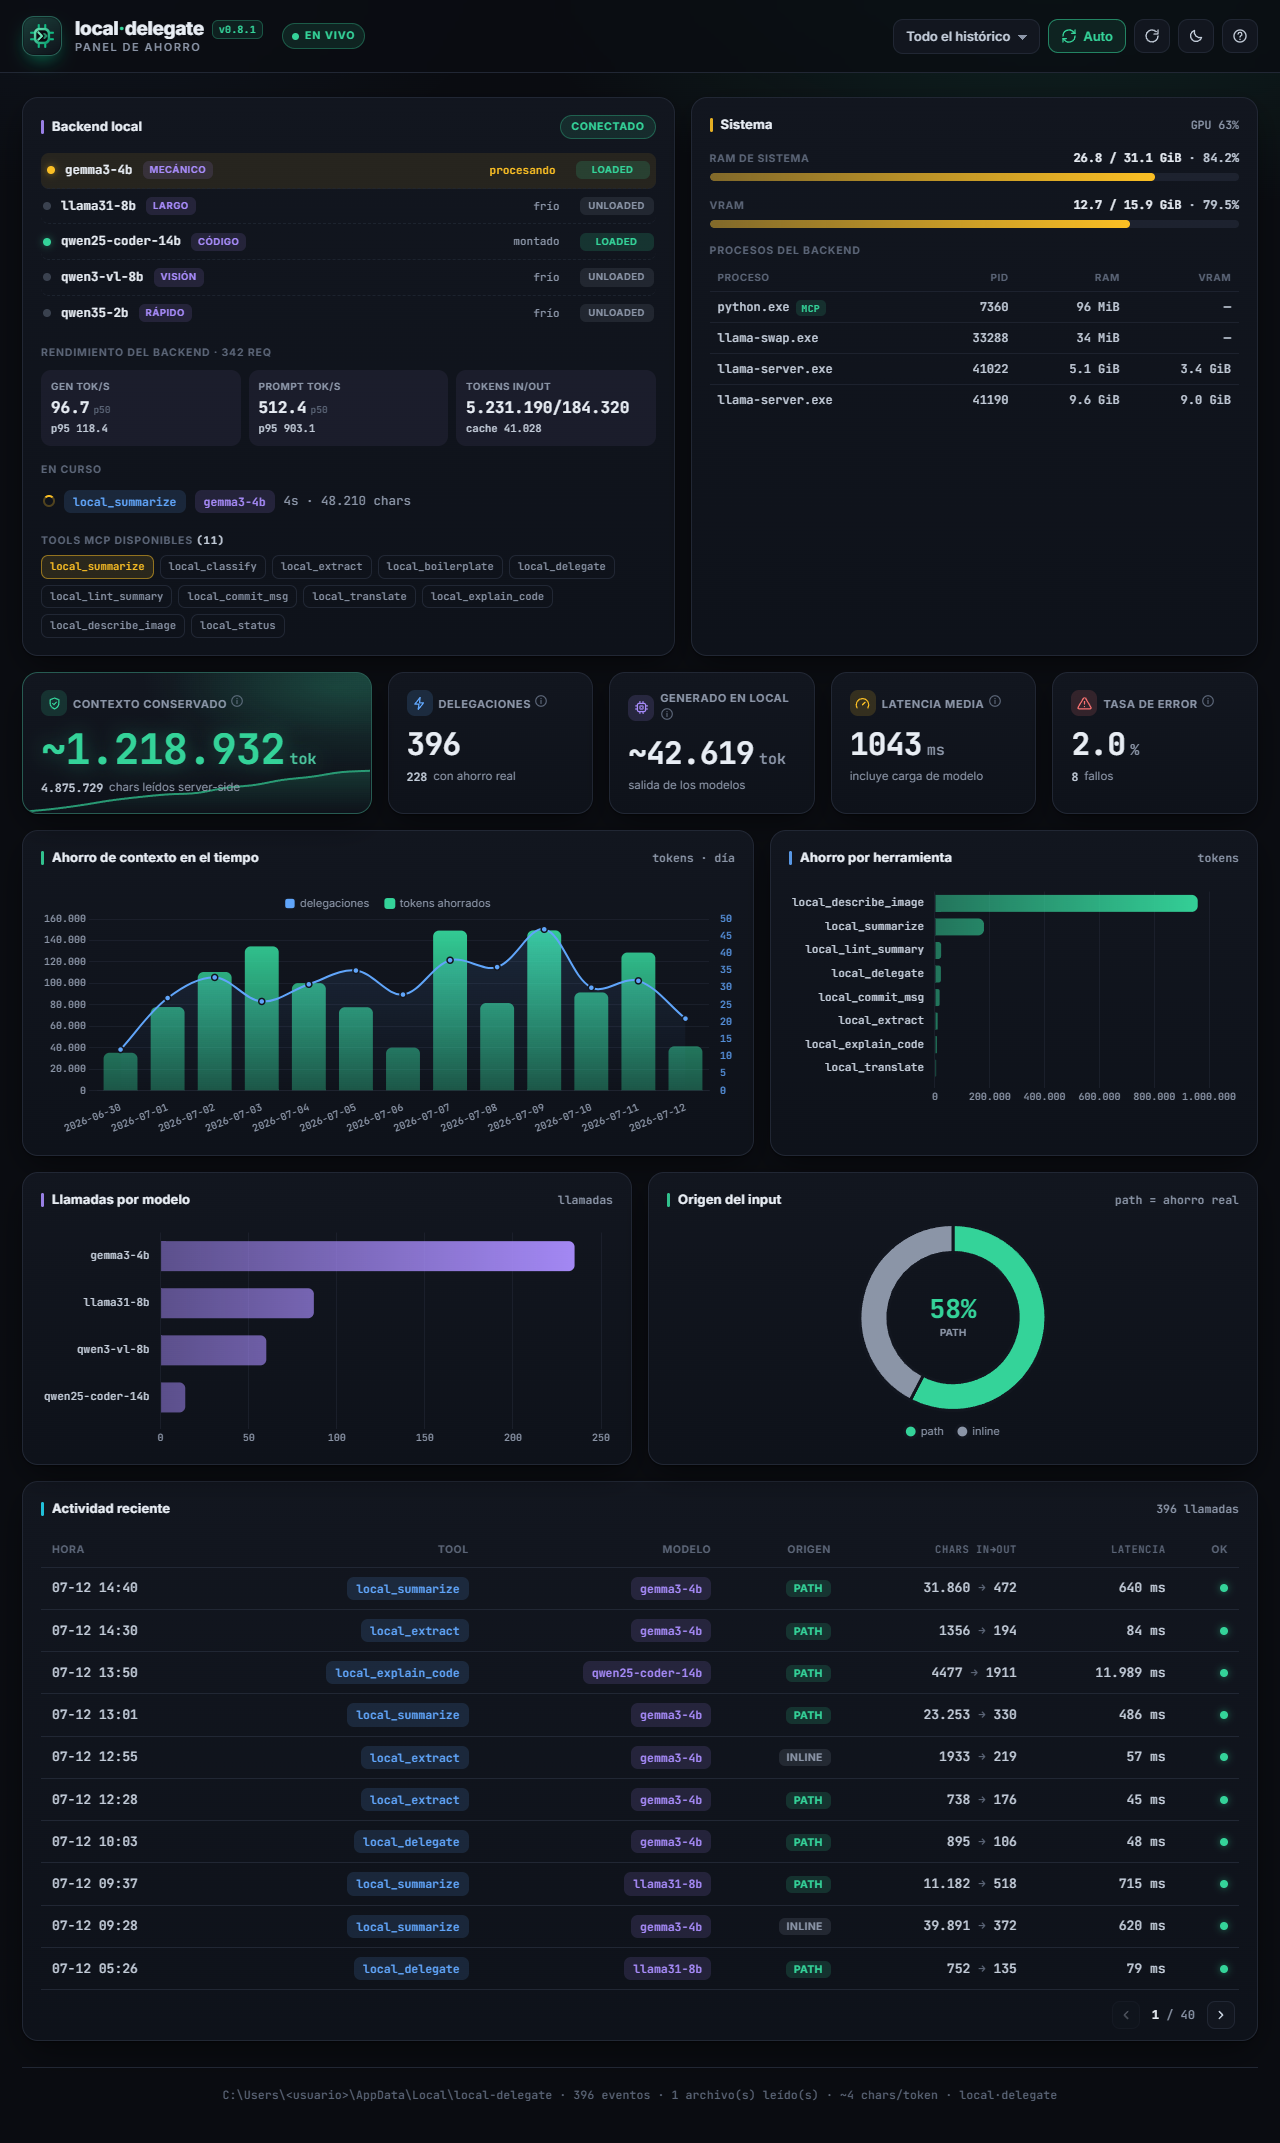
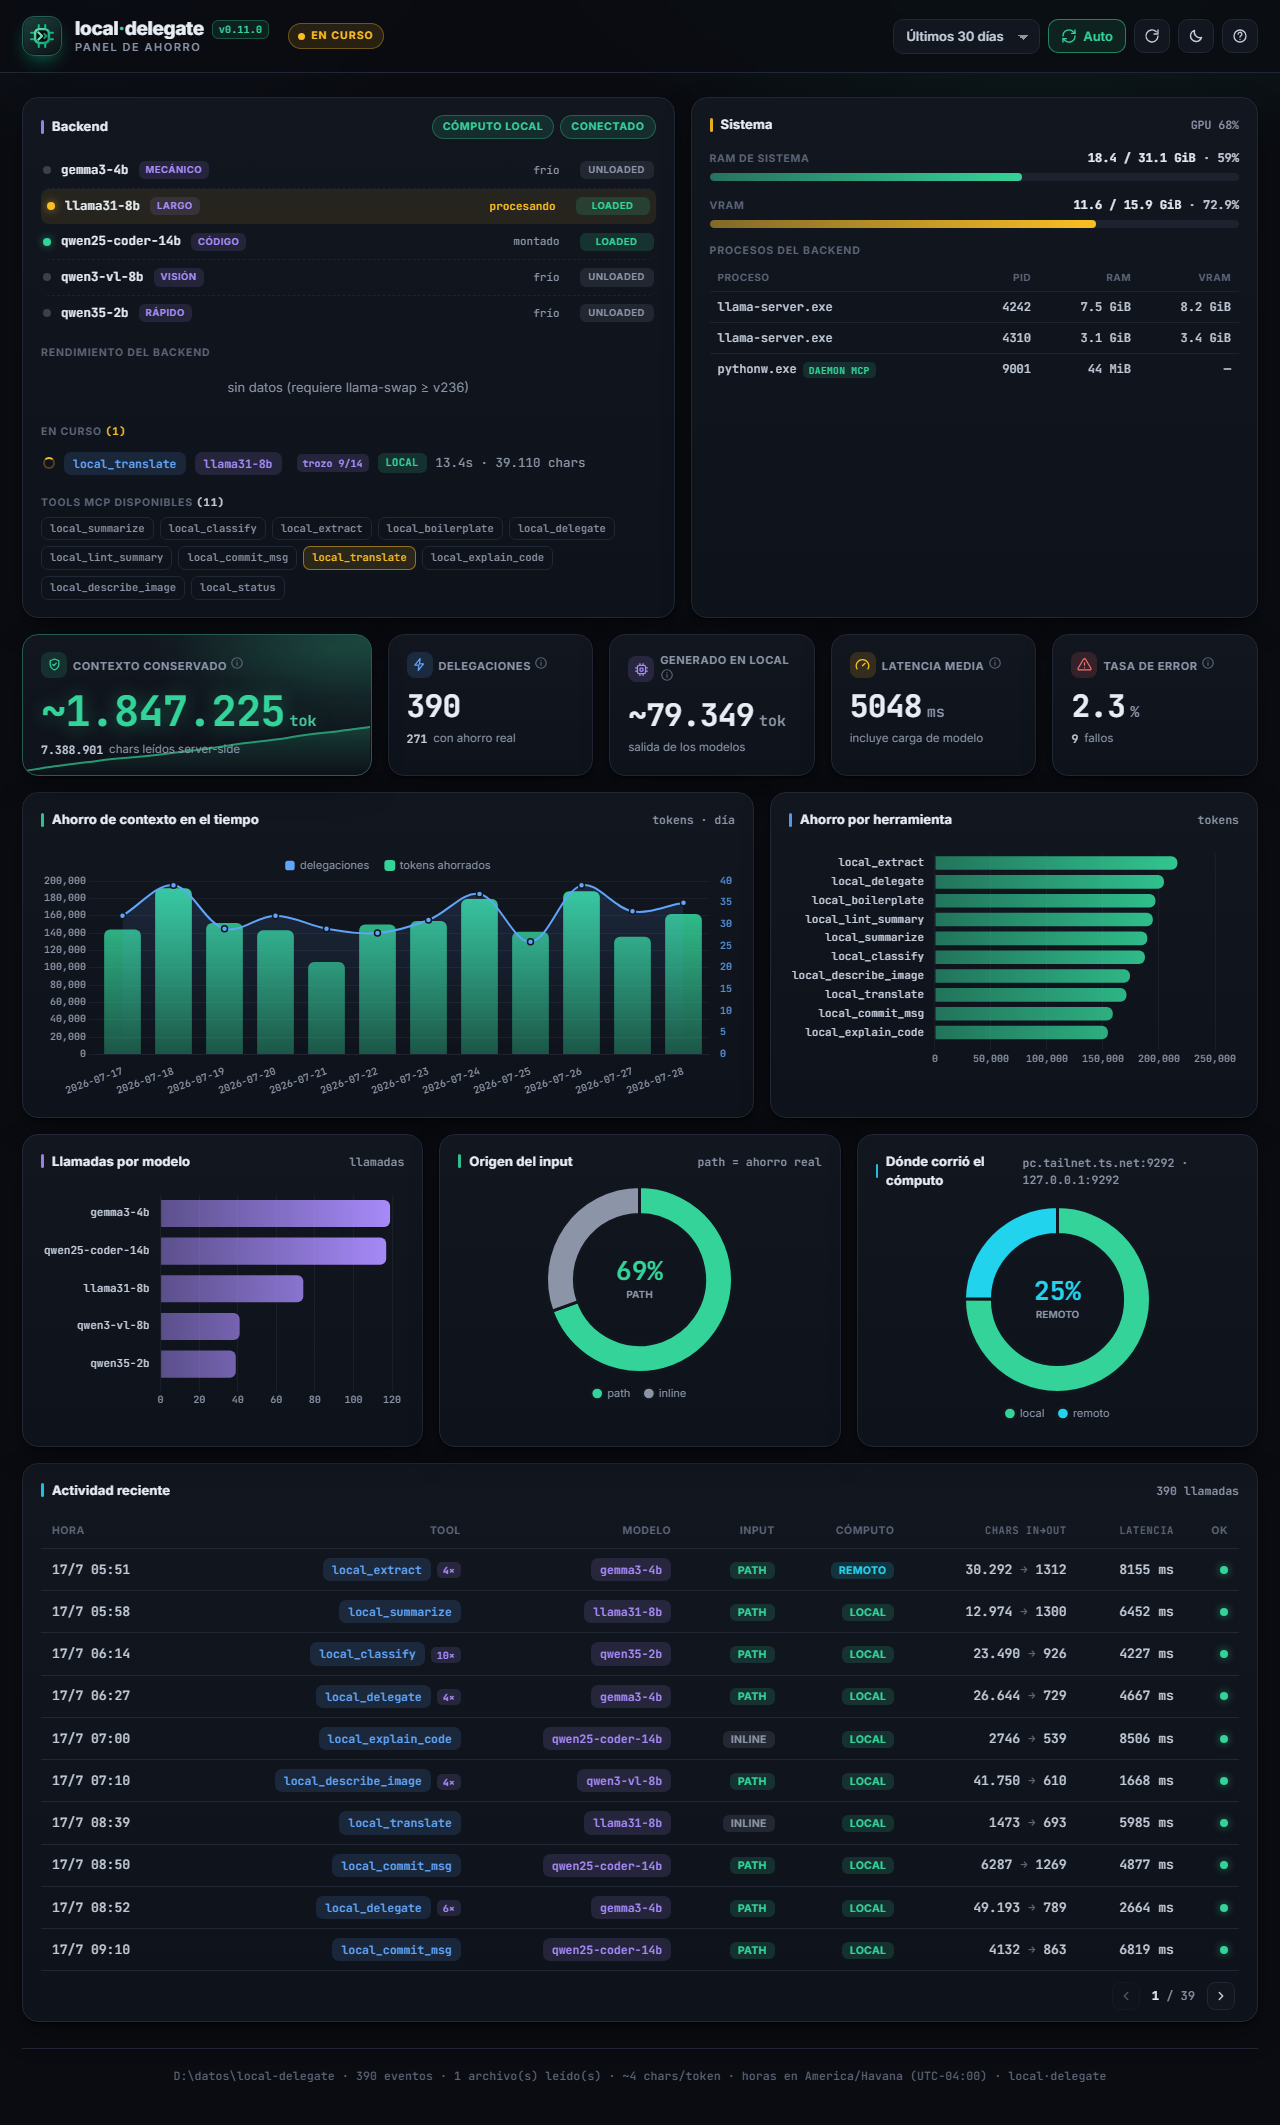
docs: regenera la captura del dashboard con el panel de la 0.11.0 (#20)
La imagen del README seguía siendo la del panel 0.8.1 y no enseñaba nada de lo que trajo esta
versión: el donut "Dónde corrió el cómputo", la columna del mismo nombre en la actividad, el
indicador de cuatro estados ni el progreso por trozos de una traducción en curso.

Se añade scripts/dev/capture_dashboard.py, que es lo que faltaba: el procedimiento estaba
documentado en prosa pero había que reconstruirlo a mano cada vez. Intercepta window.fetch con
datos de ejemplo DETERMINISTAS —misma semilla, misma imagen— y deja pasar /api/status, así la
versión, el catálogo y las 11 tools de la captura son los de verdad. Nada del log real entra
en la imagen: ni rutas, ni nombres de proyectos, ni horarios.

Dos detalles que costaron un intento cada uno: pollInflight es asíncrona y sin esperarla el
indicador salía "EN REPOSO" en vez de la delegación en curso; y la zona horaria se fija a
America/Havana porque si no el pie anuncia la de quien generó la captura y la imagen deja de
ser reproducible. El rango se pone en 30 días para que el selector no diga "Hoy" sobre un
gráfico de 12.

diff --git a/scripts/dev/capture_dashboard.py b/scripts/dev/capture_dashboard.py
@@ -1,0 +1,189 @@
+#!/usr/bin/env python3
+"""Regenera `docs/assets/dashboard.png`, la captura del dashboard que enseña el README.
+
+La captura tiene que lucir el panel **completo** —todos los gráficos con datos, un modelo
+montado y procesando, otro montado en reposo, VRAM ocupada de verdad— y eso no se consigue
+esperando a que tu log real tenga la forma adecuada. Se interceptan las respuestas de `/api/*`
+con datos de ejemplo **deterministas**, así que:
+
+- la imagen es reproducible: la misma semilla da la misma captura;
+- **no se publica tu actividad real** (rutas de archivos, nombres de proyectos, horarios);
+- `/api/status` se deja pasar sin tocar, para que la versión, el catálogo de modelos y el
+  número de tools que aparecen sean los de verdad.
+
+El README avisa de que son «datos de ejemplo». Mantener ese pie es parte del trato.
+
+Requiere Playwright, que **no** es dependencia del proyecto:
+
+    uv pip install playwright && uv run python -m playwright install chromium
+
+Uso (con el dashboard sirviendo, por ejemplo el daemon en :9393):
+
+    uv run python scripts/dev/capture_dashboard.py
+    uv run python scripts/dev/capture_dashboard.py --url http://127.0.0.1:9494/ --out /tmp/d.png
+"""
+
+from __future__ import annotations
+
+import argparse
+import asyncio
+import sys
+from pathlib import Path
+
+ROOT = Path(__file__).parents[2]
+
+# Datos de ejemplo. La semilla fija hace la captura reproducible; los nombres de archivo y el
+# host remoto son inventados a propósito para no filtrar nada de la máquina real.
+SEED_AND_MOCK = """() => {
+  const TOOLS = ['local_summarize','local_translate','local_extract','local_classify',
+    'local_lint_summary','local_boilerplate','local_commit_msg','local_explain_code',
+    'local_describe_image','local_delegate'];
+  const MODELS = {local_summarize:'llama31-8b',local_translate:'llama31-8b',
+    local_extract:'gemma3-4b',local_classify:'qwen35-2b',local_lint_summary:'gemma3-4b',
+    local_boilerplate:'qwen25-coder-14b',local_commit_msg:'qwen25-coder-14b',
+    local_explain_code:'qwen25-coder-14b',local_describe_image:'qwen3-vl-8b',
+    local_delegate:'gemma3-4b'};
+  let seed = 20260728;
+  const rnd = () => (seed = (seed * 1103515245 + 12345) % 2147483648) / 2147483648;
+
+  const now = new Date();
+  const events = [];
+  for (let d = 11; d >= 0; d--) {
+    const perDay = 24 + Math.floor(rnd() * 20);
+    for (let i = 0; i < perDay; i++) {
+      const tool = TOOLS[Math.floor(rnd() * TOOLS.length)];
+      const ts = new Date(now.getTime() - d * 864e5 + (9 + rnd() * 11) * 36e5);
+      const path = rnd() > 0.28;
+      const remote = rnd() > 0.72;
+      const chars = path ? 4000 + Math.floor(rnd() * 46000) : 300 + Math.floor(rnd() * 2500);
+      const chunks = chars > 20000 ? 2 + Math.floor(rnd() * 12) : 1;
+      events.push({
+        ts: ts.toISOString(), tool, model: MODELS[tool],
+        source: path ? 'path' : 'inline',
+        chars_in: chars, chars_out: 200 + Math.floor(rnd() * 1200),
+        latency_ms: 600 + Math.floor(rnd() * 9000),
+        ok: rnd() > 0.03,
+        backend: remote ? 'remote' : 'local',
+        backend_host: remote ? 'pc.tailnet.ts.net:9292' : '127.0.0.1:9292',
+        v: '0.11.0', finish_reason: 'stop',
+        tokens_in: Math.floor(chars / 4), tokens_out: 120 + Math.floor(rnd() * 400),
+        raw_len: chars, ...(chunks > 1 ? {chunks} : {}),
+        ...(path ? {path: 'D:\\\\docs\\\\informe-' + (i % 7) + '.md'} : {}),
+      });
+    }
+  }
+  events.sort((a, b) => a.ts.localeCompare(b.ts));
+
+  const MOCKS = {
+    '/api/events': {meta: {chars_per_token: 4, log_dir: 'D:\\\\datos\\\\local-delegate',
+      count: events.length, files_read: ['usage-202607.jsonl'],
+      range_from: events[0].ts, range_to: events[events.length - 1].ts}, events},
+    // Un modelo procesando (sale en inflight), otro montado en reposo, el resto frío.
+    '/api/backend': {available: true, running: [{model: 'llama31-8b'}, {model: 'qwen25-coder-14b'}],
+      origin: 'local', host: '127.0.0.1:9292',
+      models: [{id:'gemma3-4b',status:'unloaded'},{id:'llama31-8b',status:'loaded'},
+        {id:'qwen25-coder-14b',status:'loaded'},{id:'qwen35-2b',status:'unloaded'},
+        {id:'qwen3-vl-8b',status:'unloaded'}]},
+    // Una traducción por chunks a media faena: es lo que enseña el progreso `trozo 9/14`.
+    '/api/inflight': {inflight: [{id: '4242:7', tool: 'local_translate', model: 'llama31-8b',
+      source: 'path', chars_in: 39110, backend: 'local', elapsed_s: 13.4, chunks: 14, chunk: 9}],
+      count: 1, last_event_ts: new Date(now.getTime() - 4000).toISOString(),
+      now: now.toISOString()},
+    '/api/system': {ram: {used_gb: 18.4, total_gb: 31.1, free_gb: 12.7, pct: 59},
+      vram: {used_mb: 11890, total_mb: 16311, pct: 72.9, gpu_util_pct: 68},
+      processes: [{pid: 4242, name: 'llama-server.exe', ram_mb: 7640, vram_mb: 8420, self: false},
+        {pid: 4310, name: 'llama-server.exe', ram_mb: 3180, vram_mb: 3470, self: false},
+        {pid: 9001, name: 'pythonw.exe', ram_mb: 44, vram_mb: null, self: true}]},
+    '/api/backend/stats': {available: true, stats: {requests: 1284,
+      avg_tokens_per_second: 61.4, avg_time_to_first_token_ms: 214, total_tokens: 486320}},
+  };
+
+  const real = window.fetch.bind(window);
+  window.fetch = (input, init) => {
+    const url = String(typeof input === 'string' ? input : input.url);
+    for (const [key, body] of Object.entries(MOCKS)) {
+      if (url.includes(key)) {
+        return Promise.resolve(new Response(JSON.stringify(body),
+          {status: 200, headers: {'Content-Type': 'application/json'}}));
+      }
+    }
+    return real(input, init);  // /api/status pasa: versión, catálogo y tools son los reales
+  };
+
+  // Sin animaciones. El screenshot por CDP espera a que la página quede quieta, y un gráfico
+  // animándose o un badge parpadeando lo dejan colgado hasta el timeout.
+  if (window.Chart) { Chart.defaults.animation = false; Chart.defaults.animations = false; }
+  const style = document.createElement('style');
+  style.textContent = '*,*::before,*::after{animation:none!important;transition:none!important}';
+  document.head.appendChild(style);
+  return events.length;
+}"""
+
+# `pollInflight` es asíncrona: si se lanza sin esperarla, `updateLive()` repinta con el estado
+# anterior y el indicador sale «EN REPOSO» en vez de enseñar la delegación en curso. Se espera
+# a que resuelva y se repinta al final, ya con todo cargado.
+REFRESH = """async () => {
+  // Los datos de ejemplo cubren 12 días: con el rango en «Hoy» el selector diría una cosa y
+  // el gráfico enseñaría otra.
+  const sel = document.getElementById('range');
+  if (sel) { sel.value = '30'; sel.dispatchEvent(new Event('change')); }
+  fetchStatus(); pollSystem();
+  await fetchData();
+  await pollInflight();
+  await new Promise(r => setTimeout(r, 1000));
+  await pollInflight();
+  updateLive();
+  return {
+    live: document.getElementById('liveTxt')?.textContent,
+    canvas: [...document.querySelectorAll('canvas')].length,
+    filas: document.querySelectorAll('tbody tr').length,
+  };
+}"""
+
+
+async def run(url: str, out: Path, width: int, timezone: str) -> int:
+    try:
+        from playwright.async_api import async_playwright
+    except ImportError:
+        print(
+            "falta playwright: uv pip install playwright && "
+            "uv run python -m playwright install chromium",
+            file=sys.stderr,
+        )
+        return 2
+
+    async with async_playwright() as p:
+        browser = await p.chromium.launch()
+        try:
+            # La zona se fija: si no, el pie de la captura acaba anunciando la zona de quien
+            # la generó y la imagen deja de ser reproducible.
+            context = await browser.new_context(
+                viewport={"width": width, "height": 1400}, timezone_id=timezone
+            )
+            page = await context.new_page()
+            await page.goto(url, wait_until="networkidle")
+            total = await page.evaluate(SEED_AND_MOCK)
+            info = await page.evaluate(REFRESH)
+            if info["canvas"] < 6 or not info["filas"]:
+                print(f"el panel no se pobló como se esperaba: {info}", file=sys.stderr)
+                return 1
+            out.parent.mkdir(parents=True, exist_ok=True)
+            await page.screenshot(path=str(out), full_page=True)
+            print(f"{out} — {total} eventos, indicador «{info['live']}», {info['canvas']} gráficos")
+        finally:
+            await browser.close()
+    return 0
+
+
+def main() -> int:
+    parser = argparse.ArgumentParser(description=__doc__)
+    parser.add_argument("--url", default="http://127.0.0.1:9393/")
+    parser.add_argument("--out", type=Path, default=ROOT / "docs" / "assets" / "dashboard.png")
+    parser.add_argument("--width", type=int, default=1280)
+    parser.add_argument("--timezone", default="America/Havana", help="zona del pie de página")
+    args = parser.parse_args()
+    return asyncio.run(run(args.url, args.out, args.width, args.timezone))
+
+
+if __name__ == "__main__":
+    raise SystemExit(main())

diff --git a/README.md b/README.md
@@ -16,7 +16,7 @@ endpoint OpenAI-compatible — llama-swap, Ollama, LM Studio, vLLM.
      PyPI (los links relativos solo se resuelven dentro de GitHub). -->
 ![Dashboard de ahorro de local-delegate](https://raw.githubusercontent.com/ZahiriNatZuke/local-delegate/main/docs/assets/dashboard.png)
 
-*Dashboard embebido (datos de ejemplo): estado del backend local (modelos montados, delegaciones en curso, tools MCP), RAM/VRAM del sistema con consumo por proceso, tokens de contexto conservados, ahorro por herramienta y modelo, y actividad reciente paginada. Se sirve en `http://127.0.0.1:9393`.*
+*Dashboard embebido (datos de ejemplo): estado del backend local (modelos montados, delegación en curso con su progreso por trozos, tools MCP), RAM/VRAM del sistema con consumo por proceso, tokens de contexto conservados, ahorro por herramienta y modelo, dónde corrió el cómputo —esta máquina o un backend remoto— y actividad reciente paginada en tu hora local. Se sirve en `http://127.0.0.1:9393`.*
 
 ## ¿Por qué?
 
